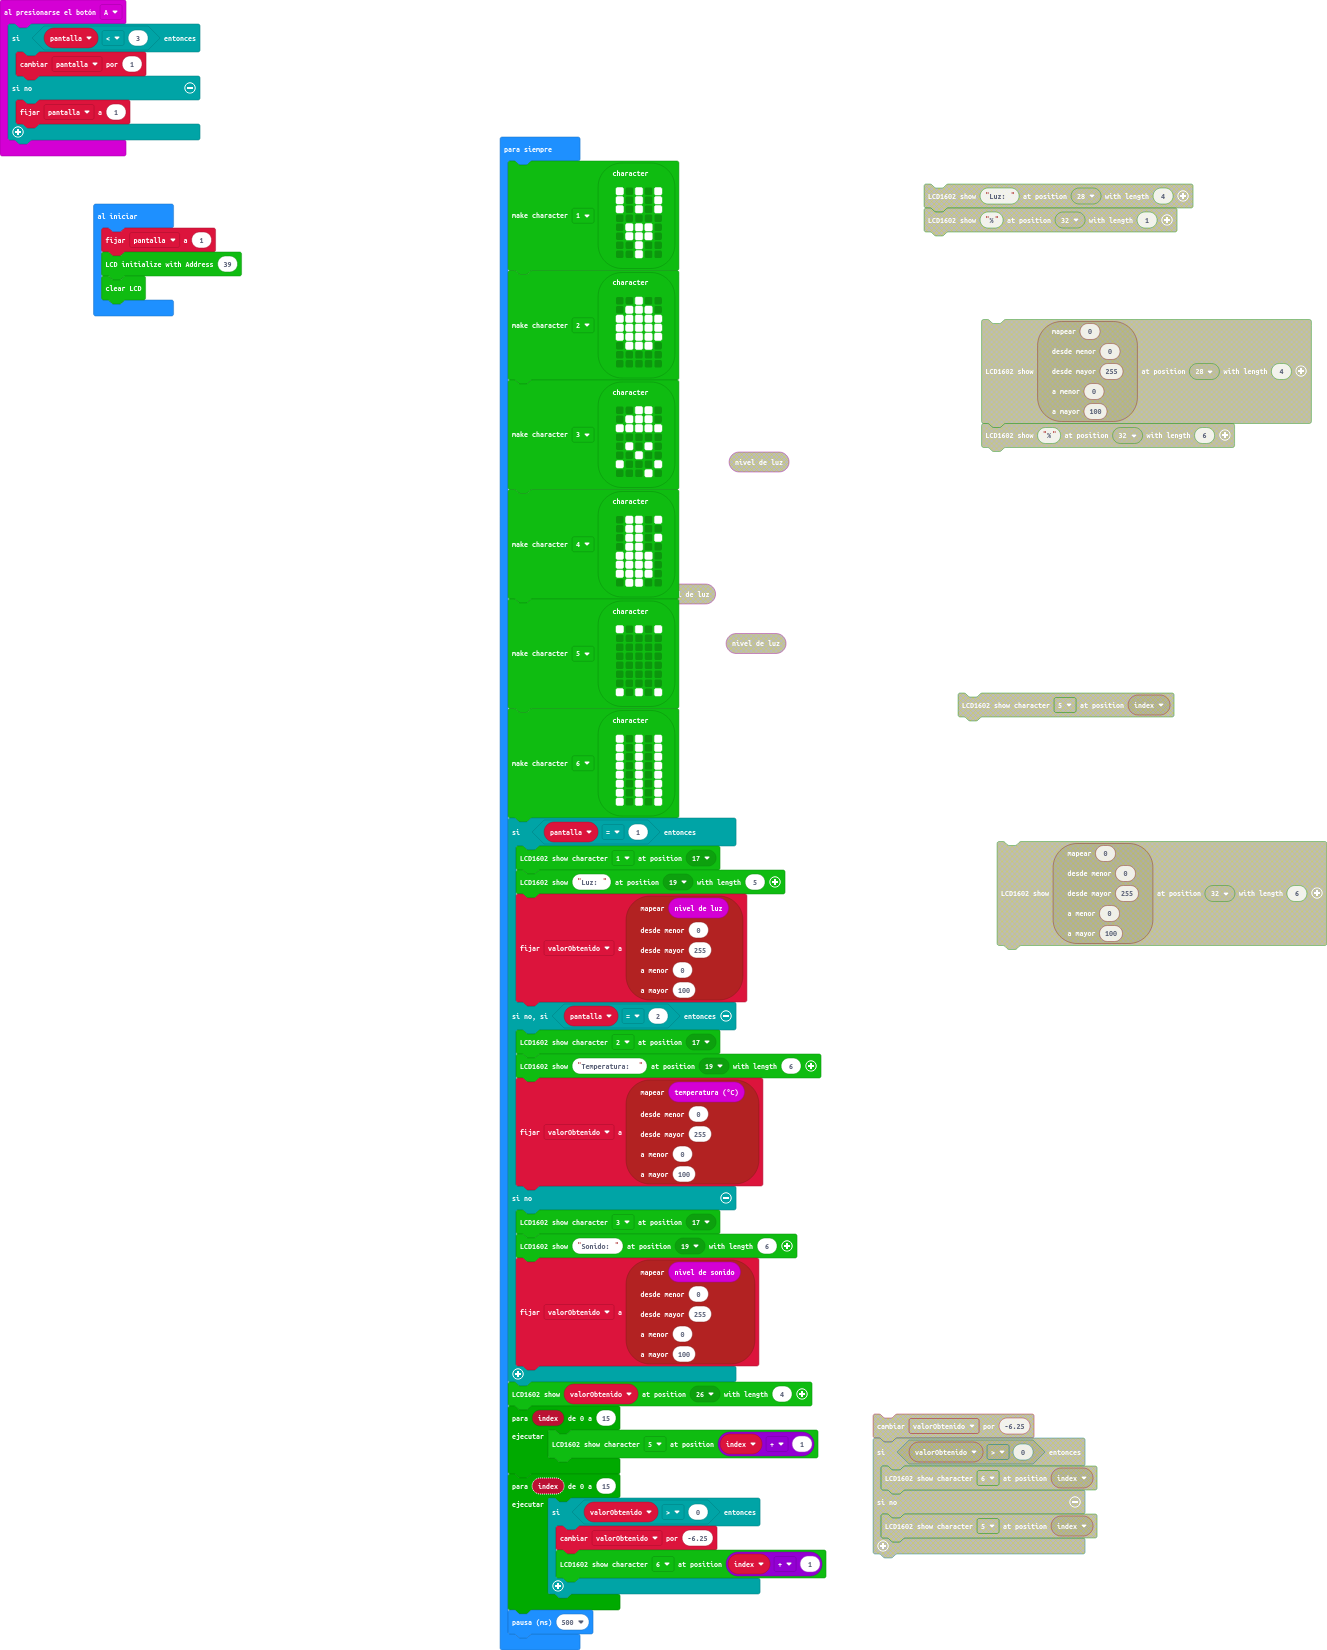
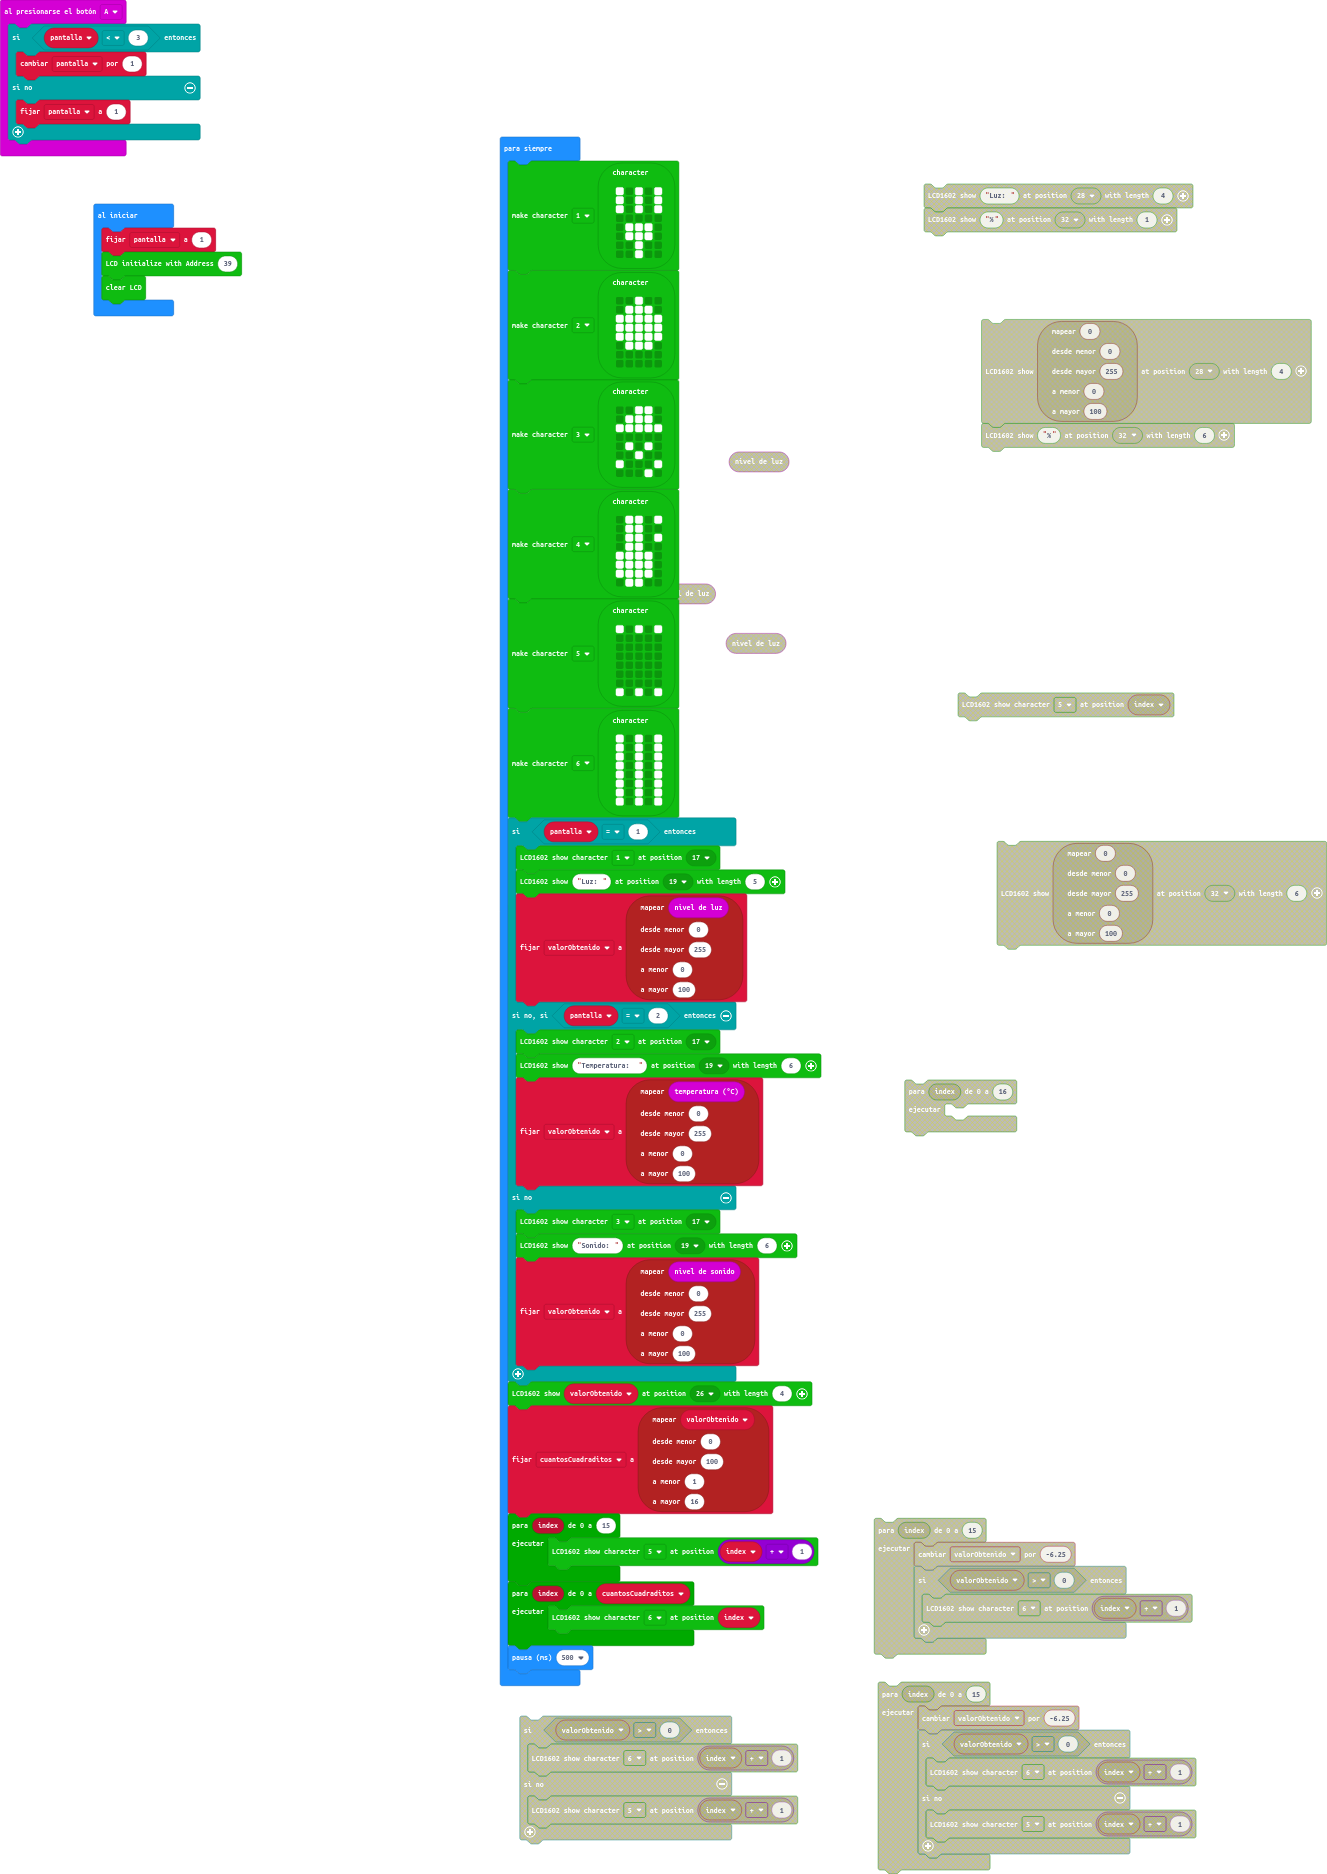
Actualizar pxt.json, main.blocks, main.ts

diff --git a/main.ts b/main.ts
@@ -5,6 +5,7 @@ input.onButtonPressed(Button.A, function () {
         pantalla = 1
     }
 })
+let cuantosCuadraditos = 0
 let valorObtenido = 0
 let pantalla = 0
 pantalla = 1
@@ -103,14 +104,18 @@ basic.forever(function () {
         )
     }
     makerbit.showStringOnLcd1602("" + (valorObtenido), makerbit.position1602(LcdPosition1602.Pos26), 4)
+    cuantosCuadraditos = pins.map(
+    valorObtenido,
+    0,
+    100,
+    1,
+    16
+    )
     for (let index = 0; index <= 15; index++) {
         makerbit.lcdShowCharacter1602(LcdChar.c5, index + 1)
     }
-    for (let index = 0; index <= 15; index++) {
-        if (valorObtenido > 0) {
-            valorObtenido += -6.25
-            makerbit.lcdShowCharacter1602(LcdChar.c6, index + 1)
-        }
+    for (let index = 0; index <= cuantosCuadraditos; index++) {
+        makerbit.lcdShowCharacter1602(LcdChar.c6, index)
     }
     basic.pause(500)
 })
